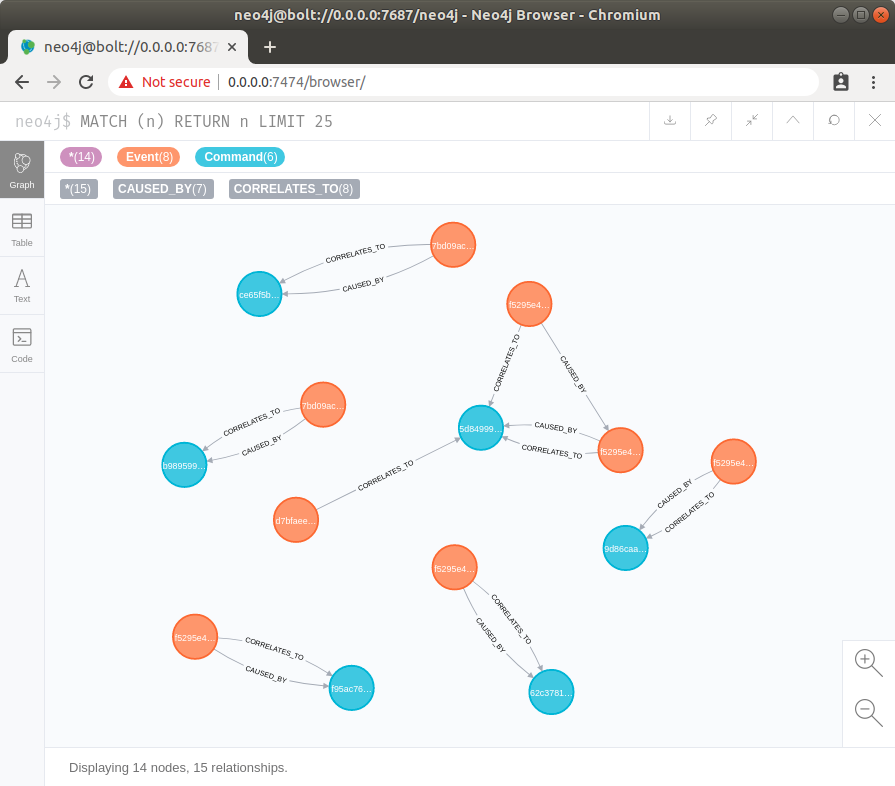
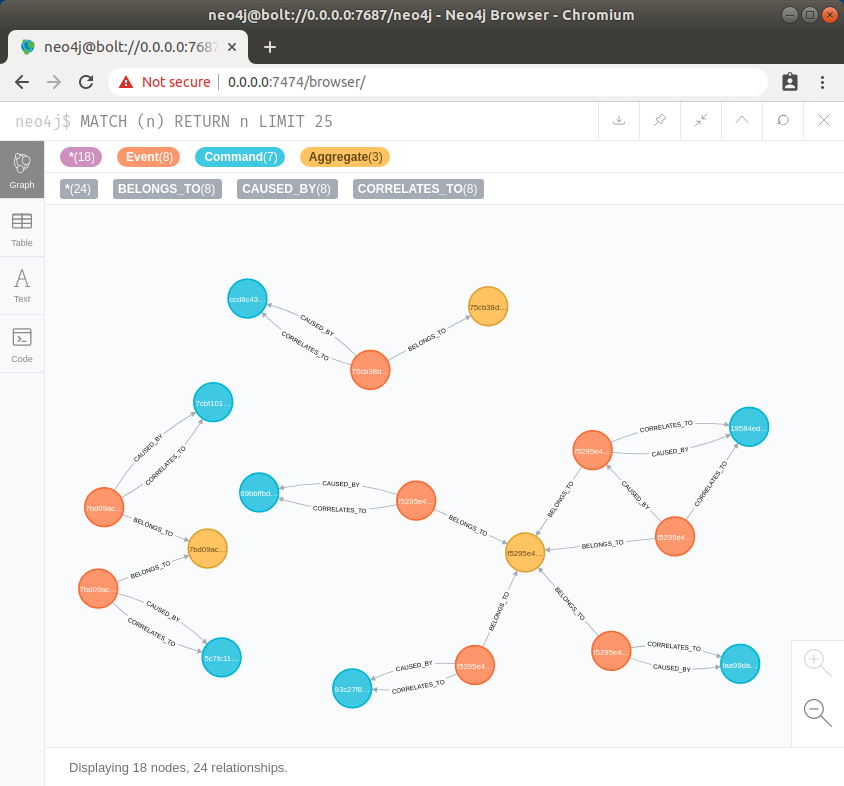
added aggregates

diff --git a/README.md b/README.md
@@ -6,6 +6,7 @@
 ```
 CREATE CONSTRAINT ON (e:Event) ASSERT e.id IS UNIQUE
 CREATE CONSTRAINT ON (c:Command) ASSERT c.id IS UNIQUE
+CREATE CONSTRAINT ON (a:Aggregate) ASSERT a.id IS UNIQUE
 ```
 
 ## Import events
@@ -17,6 +18,11 @@ CREATE (e:Event {
     causation_id: line.causation_id,
     aggregate_id: line.aggregate_id,
     topic: line.topic
+});
+
+LOAD CSV WITH HEADERS FROM 'file:///events.csv' AS line
+MERGE (a:Aggregate {
+    id: line.aggregate_id
 });
 
 LOAD CSV WITH HEADERS FROM 'file:///commands.csv' AS line
@@ -35,6 +41,12 @@ MATCH (e:Event {id: line.event_id })
 MATCH (c:Command {id: line.causation_id })
 CREATE (e)-[:CAUSED_BY]->(c)
 RETURN e, c;
+
+LOAD CSV WITH HEADERS FROM 'file:///events.csv' AS line
+MATCH (e:Event {id: line.event_id })
+MATCH (a:Aggregate {id: line.aggregate_id })
+CREATE (e)-[:BELONGS_TO]->(a)
+RETURN e, a;
 
 LOAD CSV WITH HEADERS FROM 'file:///events.csv' AS line
 MATCH (e1:Event {id: line.event_id })
